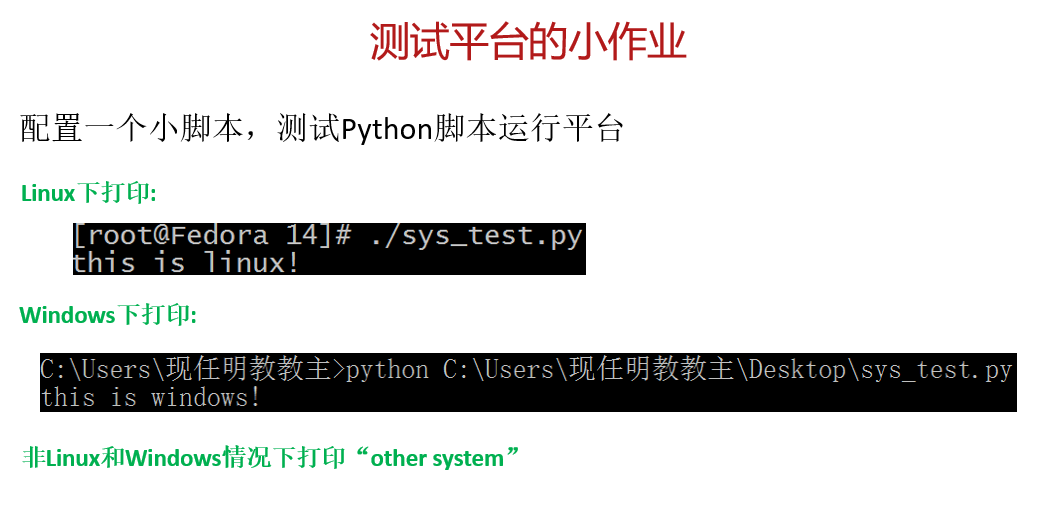
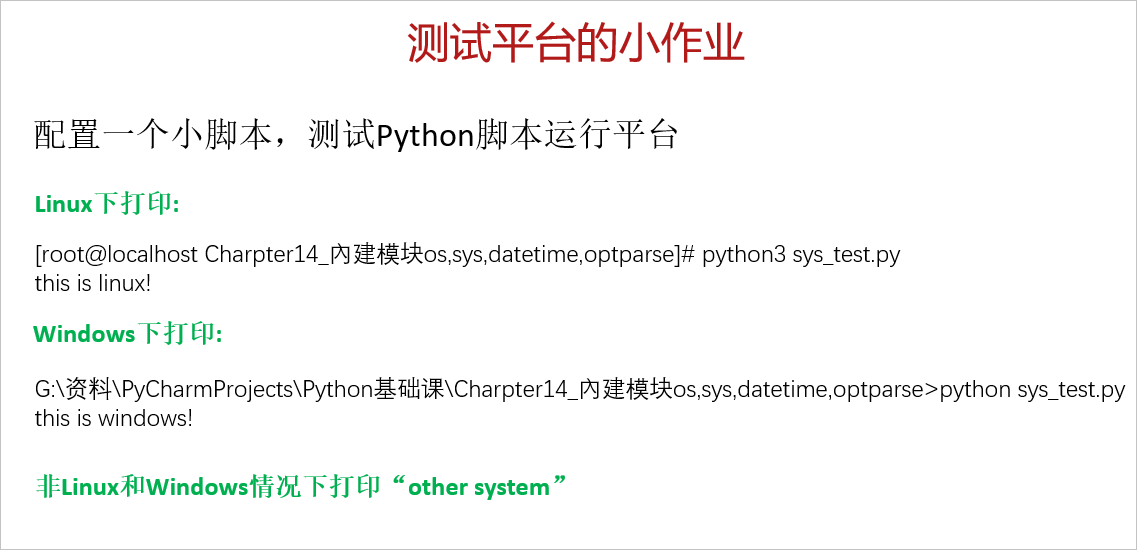
修改第十四章作业图

diff --git a/Charpter14_內建模块os,sys,datetime,optparse/sys_test.py b/Charpter14_內建模块os,sys,datetime,optparse/sys_test.py
@@ -1,0 +1,16 @@
+#!/usr/bin/env python3
+# -*- coding=utf-8 -*-
+# 本脚由亁颐堂现任明教教主编写，用于乾颐盾Python课程！
+# 教主QQ:605658506
+# 亁颐堂官网www.qytang.com
+# 教主技术进化论拓展你的技术新边疆
+# https://ke.qq.com/course/271956?tuin=24199d8a
+
+import sys
+
+if 'win' in sys.platform:
+    print('this is windows!')
+elif 'linux' in sys.platform:
+    print('this is linux!')
+else:
+    print('other system')
